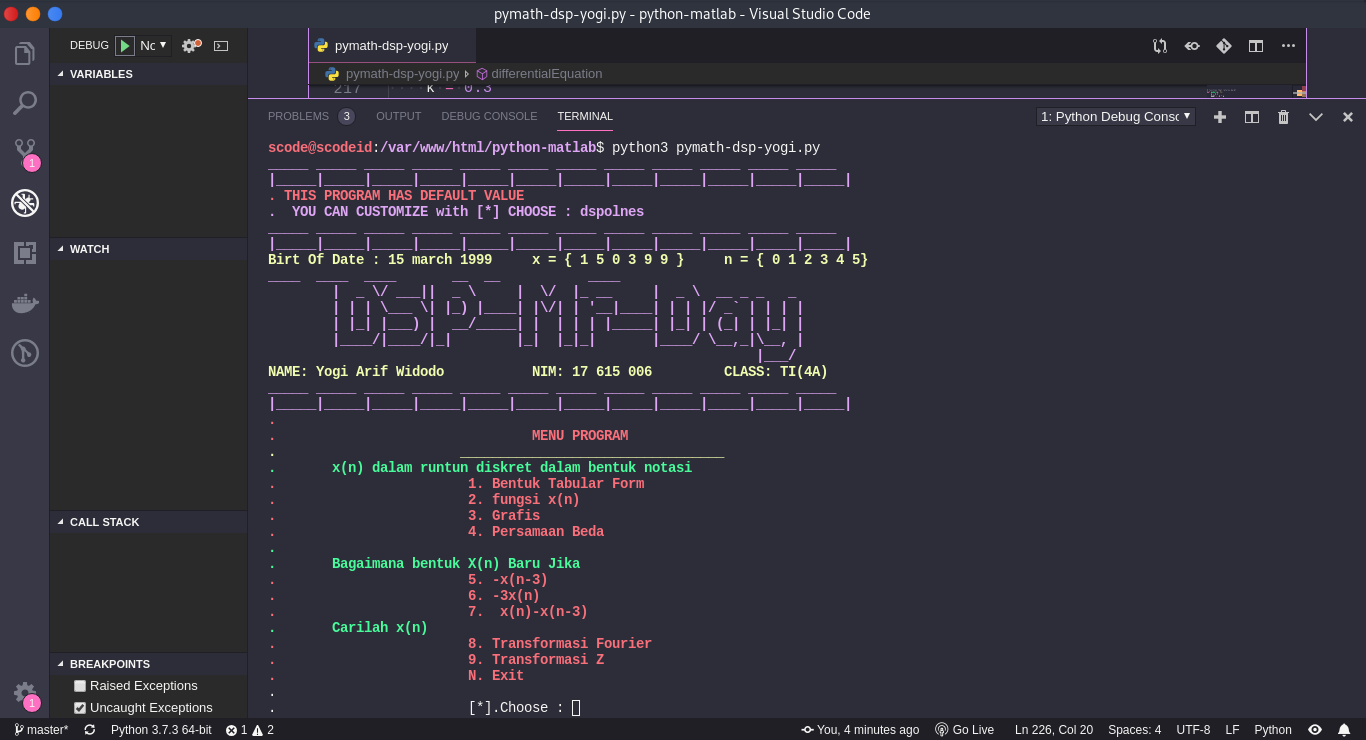
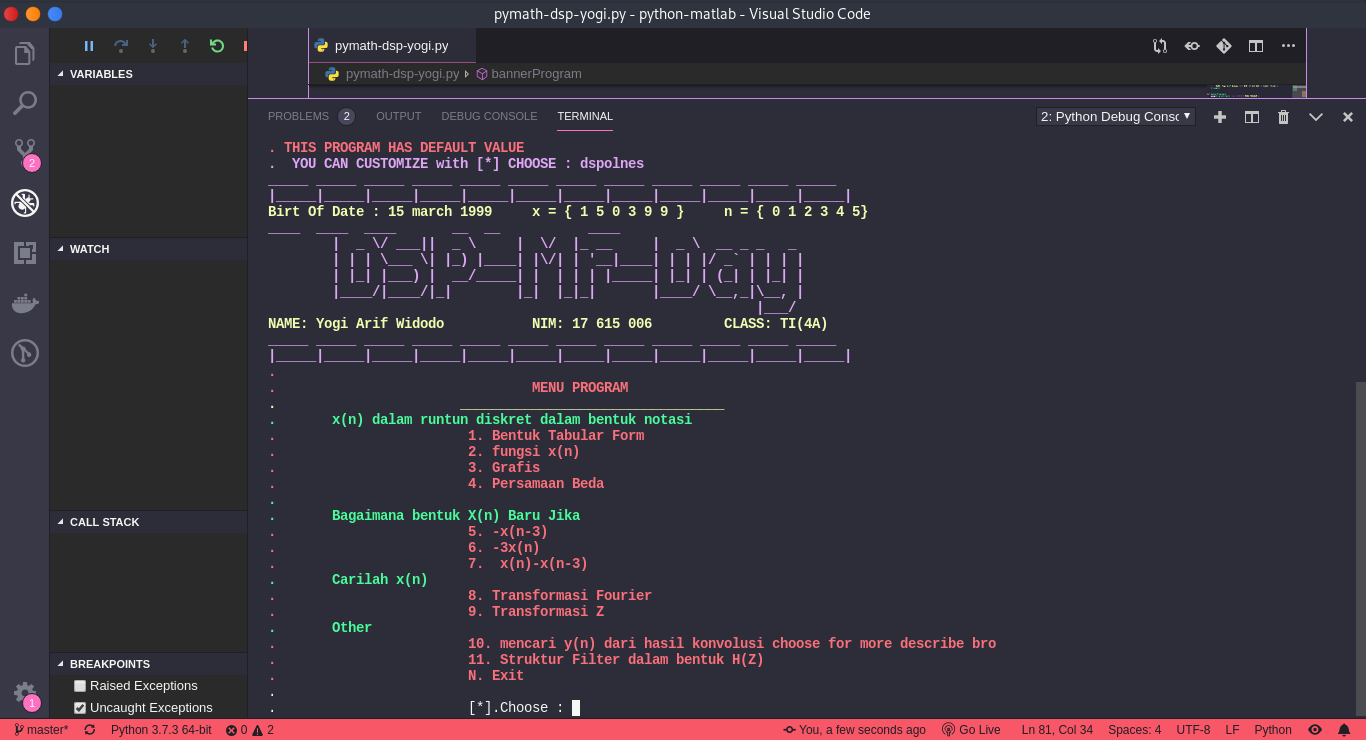
update-menu

diff --git a/pymath-dsp-yogi.py b/pymath-dsp-yogi.py
@@ -78,6 +78,10 @@ def bannerProgram():
     pyogclr.print_pass('. \tCarilah x(n)')
     pyogclr.print_fail('. \t\t\t 8. Transformasi Fourier ')
     pyogclr.print_fail('. \t\t\t 9. Transformasi Z ')
+    pyogclr.print_pass('. \tOther')
+    pyogclr.print_fail(
+        '. \t\t\t 10. mencari y(n) dari hasil konvolusi choose for more describe bro ')
+    pyogclr.print_fail('. \t\t\t 11. Struktur Filter dalam bentuk H(Z) ')
     pyogclr.print_fail('. \t\t\t N. Exit')
 
     # choose = pyogclr.print_warn('. \t\t\t [*].Choose : ',)
